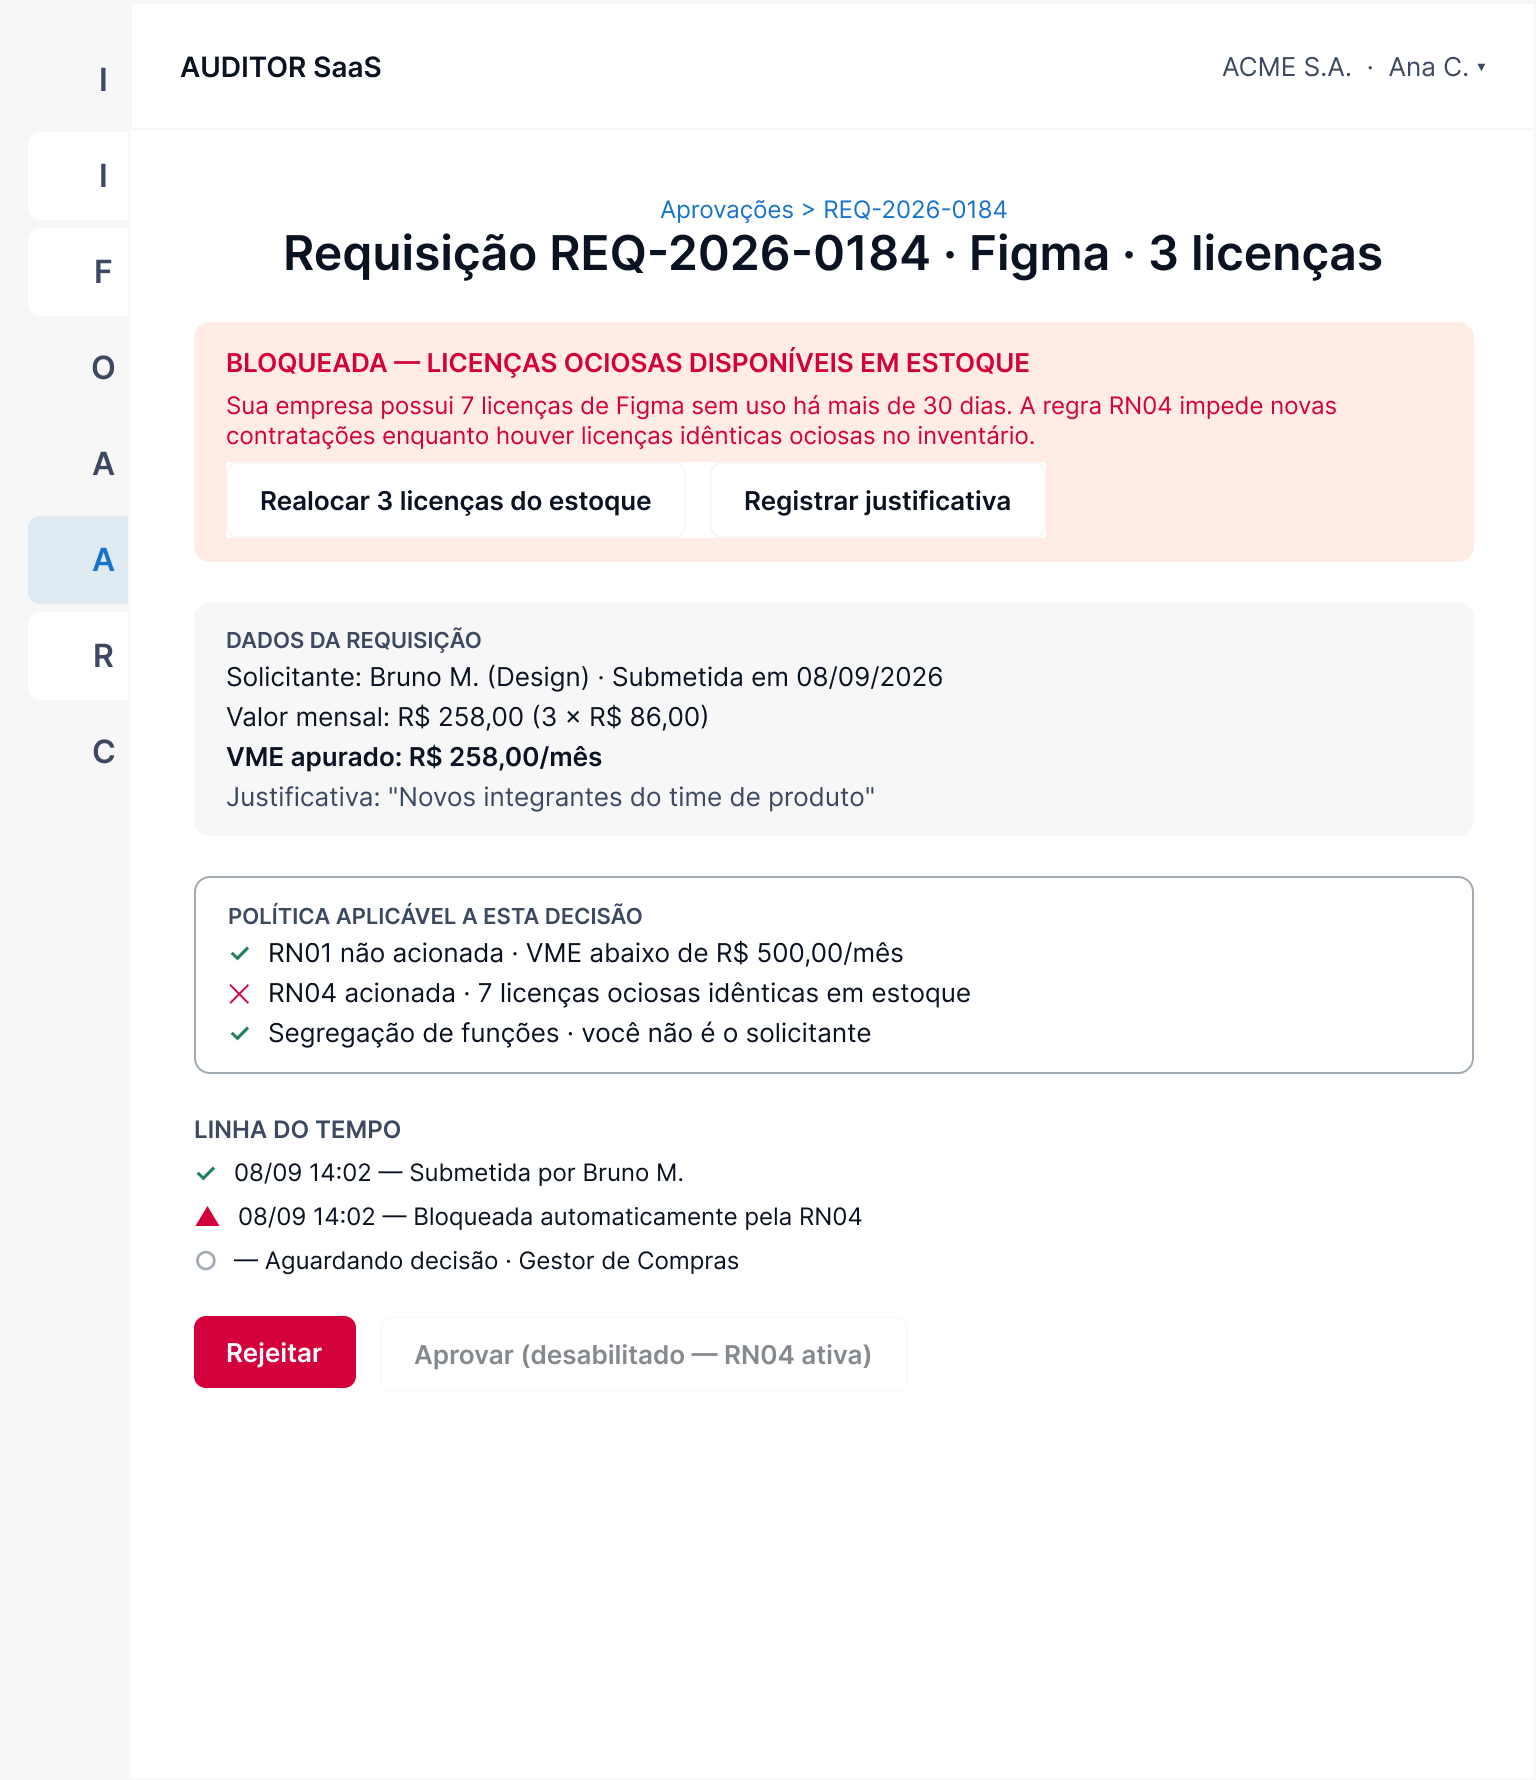
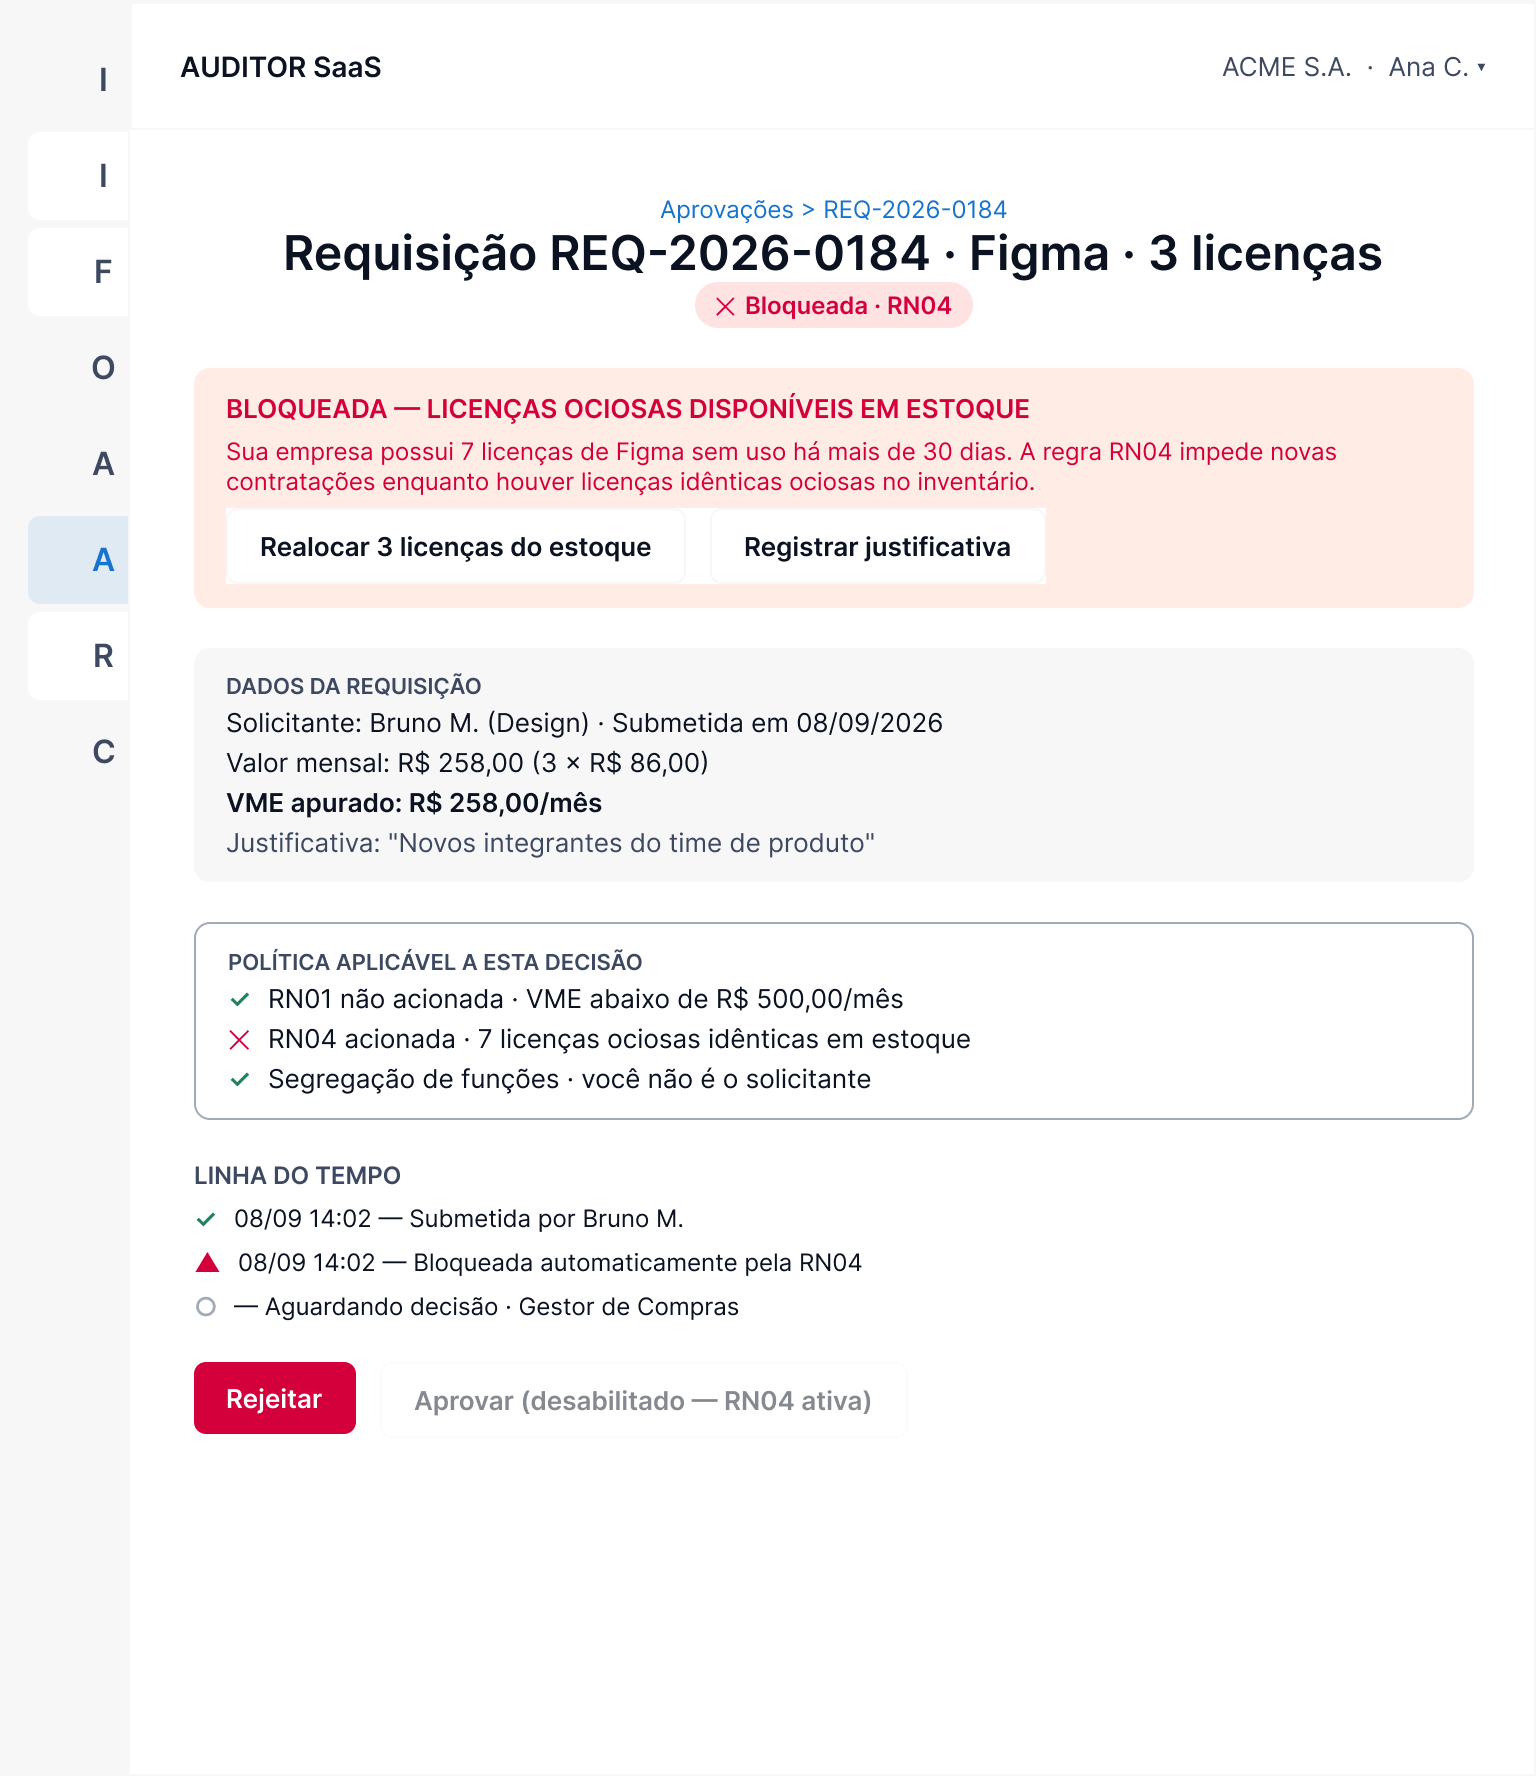
fix(semana-09): adiciona badge Bloqueada/Rascunho real na SCR-09 e corrige contagem do GI-xx

Changed region(s): [[0.125, 0.1239, 0.9688, 0.8052]]

diff --git a/semana-09/entregavel-03-diagramas-uml.md b/semana-09/entregavel-03-diagramas-uml.md
@@ -64,14 +64,24 @@ mostra.
 
 | Máquina | Estados com badge | Exemplificados no Hi-Fi | Mínimo a acrescentar |
 |:---|:---:|:---|:---|
-| `Requisição` | 9 | 1 — `Bloqueada` (SCR-09a) | `Rascunho`, `EmAprovacao`, `Aprovada`, `Rejeitada`, `Contratada`, `Expirada`, `AtendidaPorRealocacao`, `Descartada` |
+| `Requisição` | 9 | 2 — `Bloqueada` (SCR-09a), `Rascunho` (SCR-09b) | `EmAprovacao`, `Aprovada`, `Rejeitada`, `Contratada`, `Expirada`, `AtendidaPorRealocacao`, `Descartada` |
 | `Ação sobre Assinatura` | 9 | 6 — `JanelaArrependimento`, `EmAprovacao`, `Executada`, `RecusadaPeloFornecedor`, `Revertida`, `InvalidadaPorUso` (SCR-07) | `Solicitada`, `Rejeitada`, `EmExecucao` |
 | `Alerta` | 8 | 4 — `Disparado` (`Renovação próxima`), `DisparadoComRessalva`, `Escalado` (SCR-06) | `Agendado`, `Tratado`, `Ignorado`, `Cancelado`, `Expirado` |
-| **Total** | **26** | **11 (42%)** | **16** |
+| **Total** | **26** | **12 (46%)** | **15** |
 
-> A cobertura (42%) é maior que a da Semana 08 no mesmo ponto do processo (29%, antes do
+> A cobertura (46%) é maior que a da Semana 08 no mesmo ponto do processo (29%, antes do
 > Hi-Fi) — não por exigência menor, mas porque o Bloco B já nasceu com o Design System v1.0
 > pronto (Semana 06), sem o período de protótipo paralelo que a Semana 07 trouxe para o Bloco A.
+
+> **Nota de correção (adicionada na revisão da Semana 10).** Quando este documento foi
+> escrito, a linha `Requisição` contava a `Bloqueada` (SCR-09a) como já exemplificada — mas a
+> instância real do componente `Badge/Risco` (Design System, Seção 10.2) só foi construída
+> durante a revisão completa da Semana 10: até então, o estado era representado só por texto
+> colorido manualmente, sem o componente formal de badge. A mesma revisão adicionou o badge
+> `Rascunho` (`Badge/Neutro`) à SCR-09b, que também não existia antes. A tabela acima já
+> reflete o estado corrigido (12 exemplos, 46%); os números originais (1 exemplo, 42%)
+> estiveram incorretos entre a publicação deste documento e essa correção. Ver Semana 10,
+> Entregável 2, Seção 5.
 
 ### 3.1. Estados de `Licença`/`Assinatura` acionados pelo Bloco B
 
